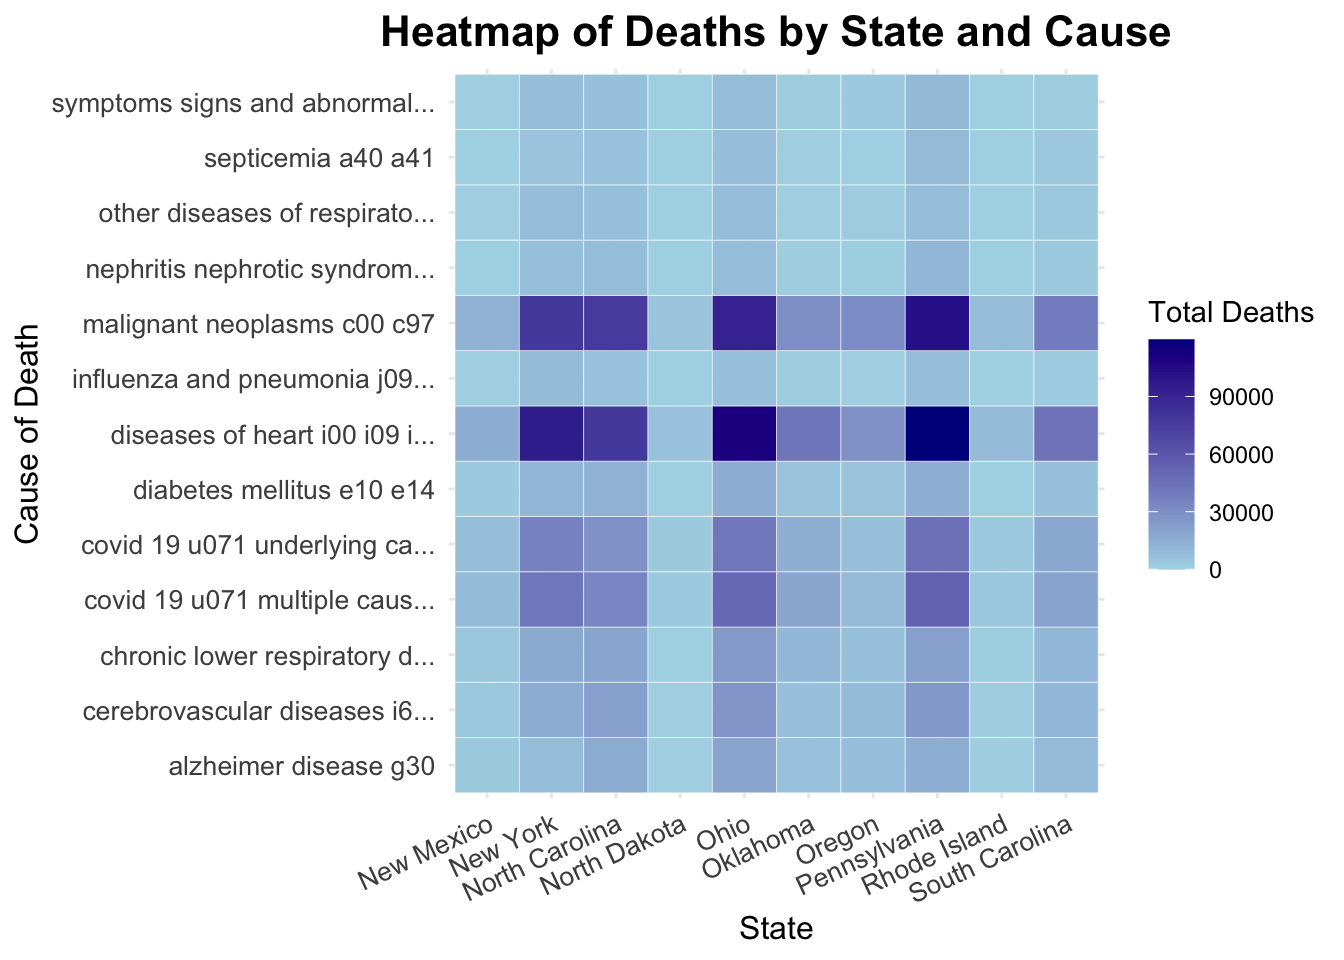
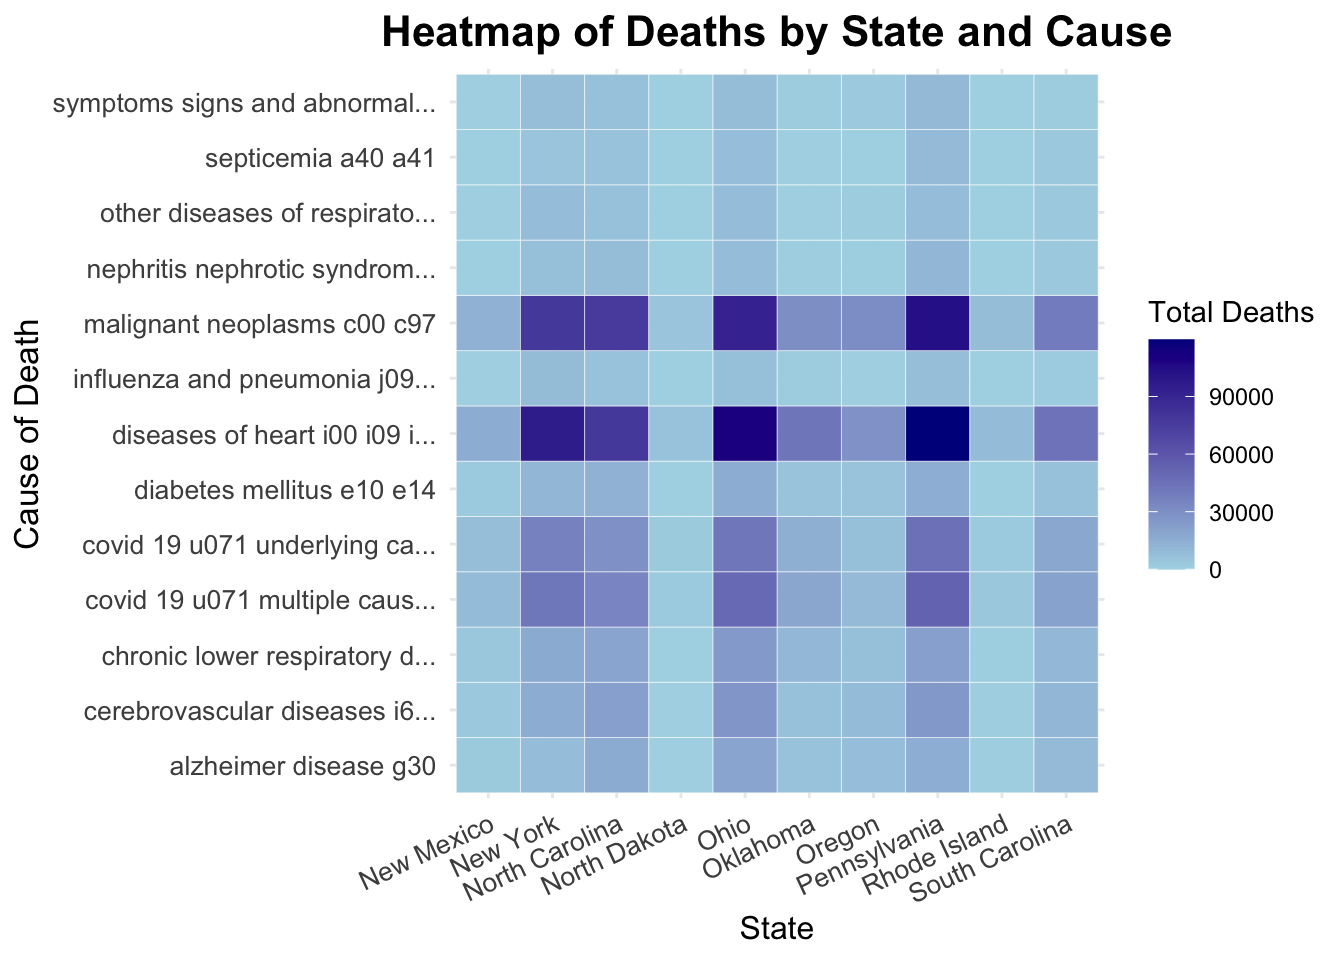
update

diff --git a/analysis_jz.html b/analysis_jz.html
@@ -682,7 +682,7 @@ ggplot(heatmap_data, aes(x = state, y = cause_of_death, fill = total_deaths)) +
     axis.text.y = element_text(size = 10), # Adjust y-axis label size
     plot.title = element_text(hjust = 0.5, face = &quot;bold&quot;, size = 16), # Center and bold the title
     axis.title.x = element_text(size = 12), # Adjust x-axis title size
-    axis.title.y = element_text(size = 12) # Adjust y-axis title size
+    axis.title.y = element_text(size = 12.5) # Adjust y-axis title size
   )</code></pre>
 <p><img src="analysis_jz_files/figure-html/unnamed-chunk-6-1.png" width="672" /></p>
 </div>
